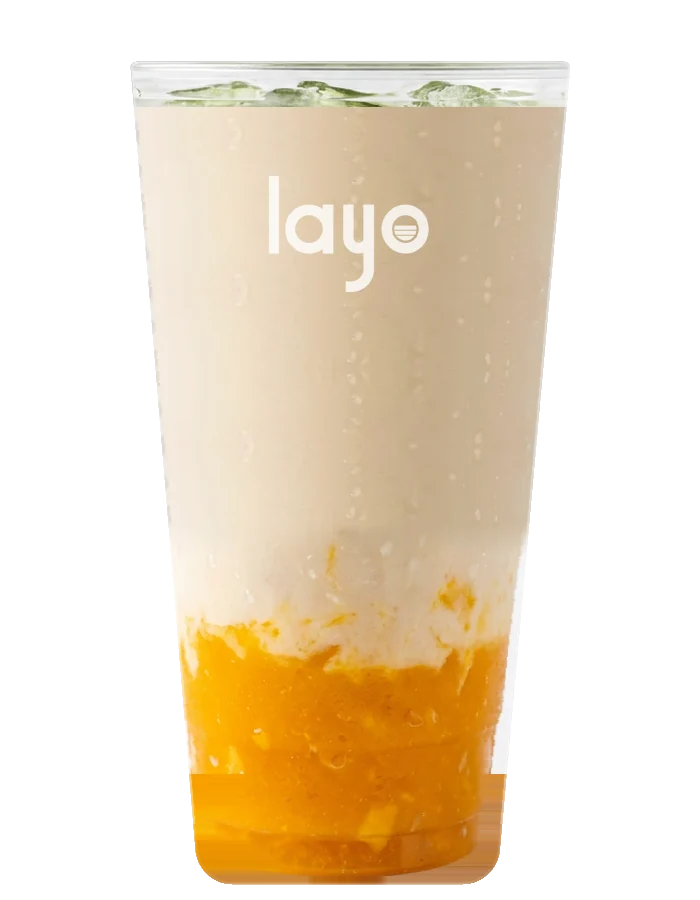
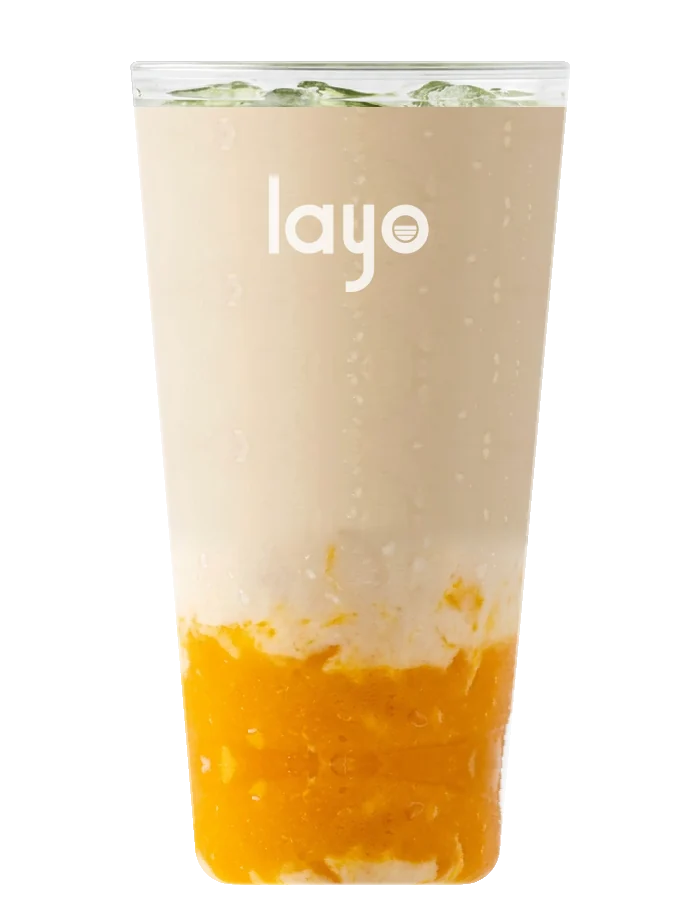
Layo: rebuild cup bases by mirroring clean purée (no smears), plain milk and matcha streams instead of the jug
Claude-Session: https://claude.ai/code/session_01UTJuAjWUwzzxbHTx65gk4g

diff --git a/projects/matcha/site/live.js b/projects/matcha/site/live.js
@@ -42,7 +42,7 @@
       A[key] = {e,m,f};
       if (key !== "plain" && !sprites[key]){ const [s,b] = await Promise.all([img(`${opt.base}bits-${key}.webp`), json(`${opt.base}bits-${key}.json`)]); sprites[key] = {s, boxes:b || []}; }
     }
-    ["pour-milk"].forEach(async n => { const i = await img(opt.base + n + ".webp"); if (!i) return;
+    [].forEach(async n => { const i = await img(opt.base + n + ".webp"); if (!i) return;
       // find where the stream leaves the bottom of the picture so it can be aimed at the cup
       const c = document.createElement("canvas"); c.width = i.width; c.height = 40; const g = c.getContext("2d"); g.drawImage(i, 0, i.height - 40, i.width, 40, 0, 0, i.width, 40);
       const d = g.getImageData(0, 20, i.width, 1).data; let sx = 0, n2 = 0; for (let x=0;x<i.width;x++) if (d[x*4+3] > 128){ sx += x; n2++; }
@@ -121,13 +121,17 @@
         const sp = sprites[drink]; if (!sp || !sp.s) continue; const bx = sp.boxes[b.k % sp.boxes.length];
         ctx.save(); ctx.globalAlpha = Math.max(0, b.a); ctx.translate(b.x, b.y); ctx.rotate(b.r); const s = b.s;
         ctx.drawImage(sp.s, bx[0], bx[1], bx[2], bx[3], -bx[2]*s/2, -bx[3]*s/2, bx[2]*s, bx[3]*s); ctx.restore(); }
-      // the pour: a photographed jug or katakuchi, its stream cut at the surface
+      // the pour: just a stream of milk or matcha falling into the cup, no vessel
       const p = st.pour;
-      if (p){ p.t += dt; const J = jugs[p.kind]; const k = Math.min(1, p.t/.4) - Math.max(0, (p.t - (p.dur - .4))/.4);
-        if (J && k > 0){ const top = -(opt.headroom || 380), sc = (m.bot - top)/J.i.height, sx = W/2 + 6 - J.sx*sc, surf = Math.min(st.milk, st.fruit);
-          const y0 = top - (1 - k)*220;   // the vessel comes down into view, pours, and lifts away
-          ctx.save(); ctx.globalAlpha = Math.min(1, k*1.4); ctx.beginPath(); ctx.rect(-400, -2000, W + 800, surf + 2000 + 6); ctx.clip();
-          ctx.drawImage(J.i, sx, y0, J.i.width*sc, J.i.height*sc); ctx.restore(); st.wob = Math.min(1, st.wob + dt*.8); }
+      if (p){ p.t += dt; const k = Math.min(1, p.t/.25) - Math.max(0, (p.t - (p.dur - .3))/.3);
+        if (k > 0){ const surf = Math.min(st.milk, st.fruit), x = W/2 + 18, top = -(opt.headroom || 300);
+          const wdt = (p.kind === "milk" ? 13 : 10)*k, g2 = ctx.createLinearGradient(x - wdt, 0, x + wdt, 0);
+          const c = p.kind === "milk" ? ["#e8dcc4","#fbf6ec","#ddcfb4"] : ["#4f7a1e","#8dbb45","#456e18"];
+          g2.addColorStop(0,c[0]); g2.addColorStop(.45,c[1]); g2.addColorStop(1,c[2]);
+          ctx.fillStyle = g2; ctx.beginPath();
+          for (let y = top; y <= surf; y += 20){ const sw = Math.sin(y*.05 + st.t*9)*1.2; ctx.lineTo(x - wdt*.8 + sw, y); }
+          for (let y = surf; y >= top; y -= 20){ const sw = Math.sin(y*.05 + st.t*9)*1.2; ctx.lineTo(x + wdt*.8 + sw, y); }
+          ctx.fill(); st.wob = Math.min(1, st.wob + dt*.8); }
         if (p.t > p.dur) st.pour = null; }
     }
     requestAnimationFrame(frame);
@@ -147,11 +151,11 @@
       }
       if (from === "milk"){
         st.front = st.frontT = m.liquid - 60; st.milk = st.milkT = m.fruit + 1;
-        st.pour = {kind:"pour-milk", t:0, dur:1.7}; await wait(250); if (id !== job) return; st.milkT = m.liquid - 4; await wait(1500); if (id !== job) return; from = "matcha";
+        st.pour = {kind:"milk", t:0, dur:1.6}; await wait(250); if (id !== job) return; st.milkT = m.liquid - 4; await wait(1500); if (id !== job) return; from = "matcha";
       }
       if (from === "matcha"){
         st.front = st.frontT = m.liquid - 60;
-        await wait(150); if (id !== job) return;   // no hand: the matcha simply blooms into the milk
+        st.pour = {kind:"matcha", t:0, dur:1.4}; await wait(300); if (id !== job) return;
         st.frontT = m.matcha;            // clouds bloom down through the top of the milk
         await wait(2600); if (id !== job) return;
         st.frontT = H + 300;             // and settle into the finished drink

diff --git a/tools/build_live.py b/tools/build_live.py
@@ -102,20 +102,18 @@ def to_ref(F, k):
     if k=='blueberry': return F, BANDS[k]
     Fw=walls(F); rr=[y for y in range(900) if Fw[y] is not None]; t,b=rr[0],rr[-1]
     G=rowmap(F,Fw,(t,b+1),F.shape,RW,(RT,RB+1)); G[:,:,3]=np.where(G[:,:,3]>0,REF[:,:,3],0)
-    # the photo's own base is narrower than the reference cup: fill white backdrop at the bottom with the drink next to it
-    for y in range(RB-110, RB+1):
-        row=G[y]; c=np.where(row[:,3]>0)[0]
-        if len(c)<10: continue
-        px=row[:,:3].astype(int); lum=px.mean(1); med=np.median(lum[c[0]+(c[-1]-c[0])//4:c[-1]-(c[-1]-c[0])//4]); pale=lum>med+28
-        mid=(c[0]+c[-1])//2
-        for x in range(mid, c[-1]+1):
-            if pale[x]: G[y,x,:3]=G[y,x-1,:3]
-        for x in range(mid, c[0]-1, -1):
-            if pale[x]: G[y,x,:3]=G[y,x+1,:3]
-    ref=G[RB-40,:,:3][G[RB-40,:,3]>0].astype(int).mean()
-    for y in range(RB-25, RB+1):
-        m_=G[y,:,3]>0
-        if m_.sum() and G[y,m_,:3].astype(int).mean()>ref+18: G[y,:,:3]=G[y-1,:,:3]
+    # the photo's own base is narrower than the reference cup: rebuild the bottom by mirroring clean purée from above
+    B0=RB-120; Gw=walls(G); Gi=G.copy()
+    for y in range(B0, RB+1):
+        sy=2*B0-y
+        if RW[y] is None or Gw[sy] is None: continue
+        l,r=RW[y]; sl,sr=Gw[sy]; sl+=10; sr-=10
+        xs=np.linspace(sl,sr,r-l+1).astype(int); G[y,l:r+1,:3]=Gi[sy,xs,:3]
+    # and the same for a pale strip along the walls in the lower half
+    for y in range((RT+RB)//2, B0):
+        if RW[y] is None: continue
+        l,r=RW[y]; w=r-l
+        xs=np.linspace(l+10,r-10,w+1).astype(int); G[y,l:r+1,:3]=Gi[y,xs,:3]
     f=lambda y:int(RT+(y-t)*(RB-RT)/(b-t)); return G, tuple(f(v) for v in BANDS[k])
 for k,p in SRC.items():
     F,BK=to_ref(clean(np.asarray(Image.open(p).convert('RGBA'))),k); Fw=walls(F)
